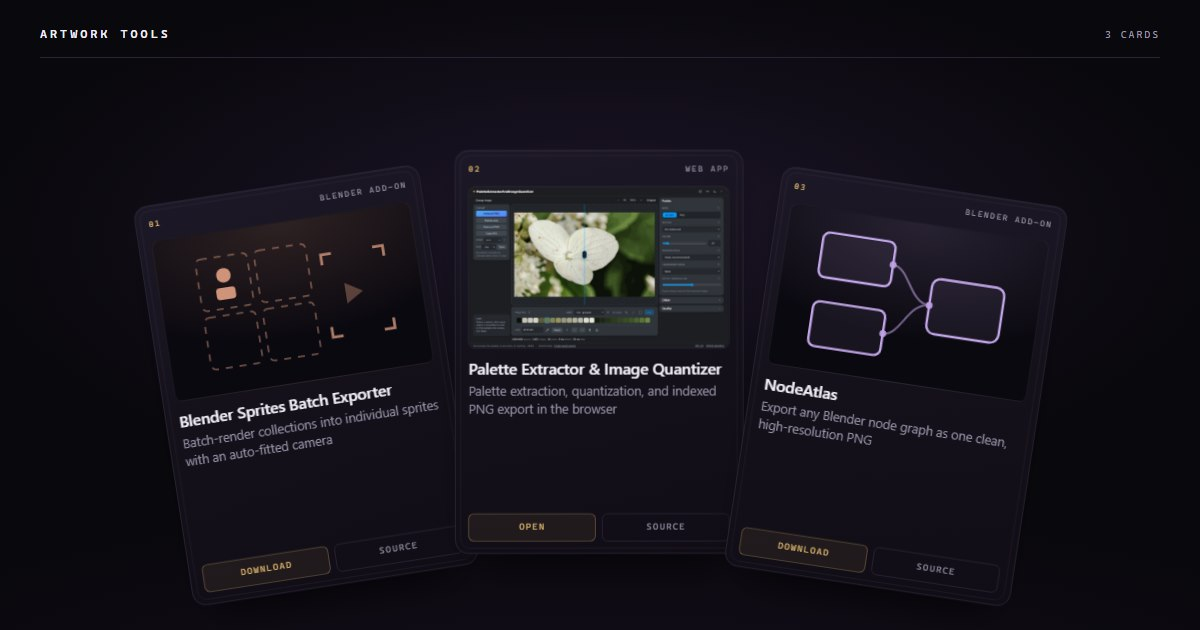
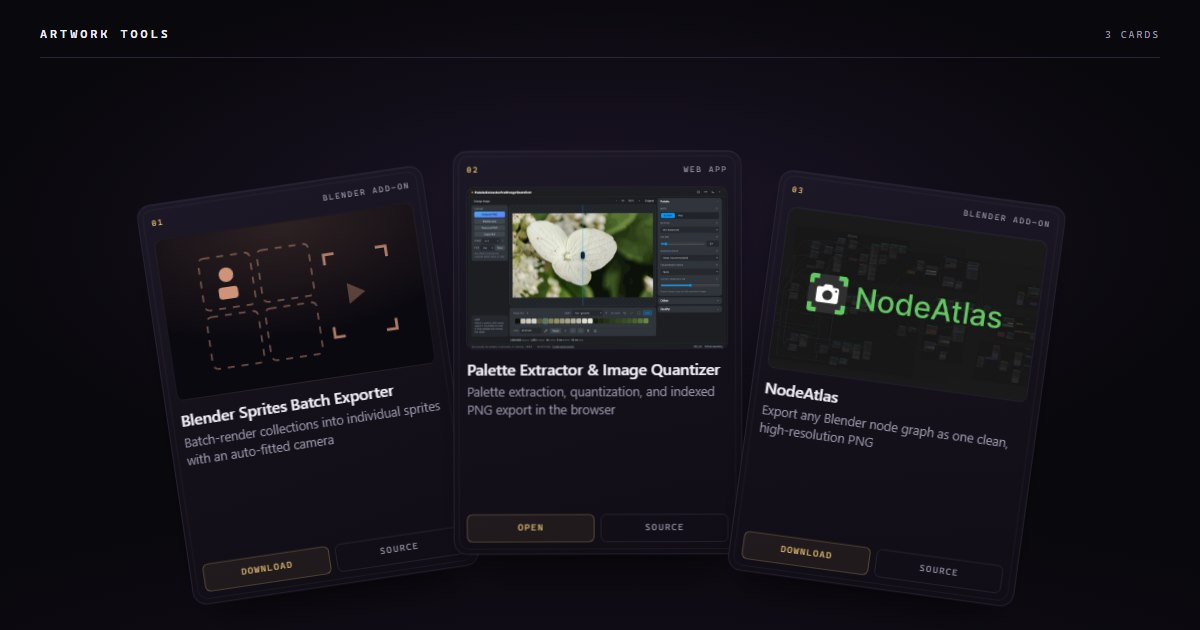
Show the NodeAtlas featured image on its card
assets/node-atlas.jpg is featured.png from the NodeAtlas repository, centre-cropped from
1920 x 1080 to 8:5 and scaled to 720 x 450; 31 KB. The card swaps its inline SVG emblem
for a screenshot window with alt="", the same pattern as the palette card.

assets/social-preview.jpg is recaptured at 1200 x 630 so the preview shows the new art.
AGENTS.md section 1 records that two cards carry screenshots and that the site is live.

Checked on a local server: the JPEG answers 200 as image/jpeg, the page holds one
node-atlas image and one SVG emblem left, and the card renders at 1200 x 630 and in the
390 px column with the art window the same size as the others.

diff --git a/index.html b/index.html
@@ -108,23 +108,8 @@
               <span class="card-kind">Blender add-on</span>
             </div>
 
-            <div class="card-art" aria-hidden="true">
-              <svg viewBox="0 0 120 84" focusable="false">
-                <g fill="none" stroke="currentColor" stroke-width="1.2" opacity=".55">
-                  <path d="M48 22c10 0 12 20 24 20"/>
-                  <path d="M48 62c10 0 12-20 24-20"/>
-                </g>
-                <g fill="currentColor" fill-opacity=".08" stroke="currentColor" stroke-width="1.4">
-                  <rect x="6" y="9" width="42" height="26" rx="4"/>
-                  <rect x="6" y="49" width="42" height="26" rx="4"/>
-                  <rect x="72" y="26" width="42" height="32" rx="5"/>
-                </g>
-                <g fill="currentColor" opacity=".9">
-                  <circle cx="48" cy="22" r="2"/>
-                  <circle cx="48" cy="62" r="2"/>
-                  <circle cx="72" cy="42" r="2"/>
-                </g>
-              </svg>
+            <div class="card-art card-art-shot">
+              <img src="assets/node-atlas.jpg" width="720" height="450" alt="">
             </div>
 
             <div class="card-body">

diff --git a/AGENTS.md b/AGENTS.md
@@ -12,8 +12,9 @@ only; no framework, no build step, no backend, no accounts, no analytics. The re
 root *is* the site.
 
 **Status:** the card-table layout is in place: the tools are dealt as cards and one card
-opens into a centred inspect view. The palette tool shows a real screenshot; the other two
-still use inline SVG emblems. The site is not yet published — the owner pushes.
+opens into a centred inspect view. The palette tool and NodeAtlas show real screenshots;
+Blender Sprites still uses an inline SVG emblem. The site is live at
+`https://kirillhod.github.io/`; the owner pushes.
 
 **Agreed identifiers** (do not rename without approval):
 
